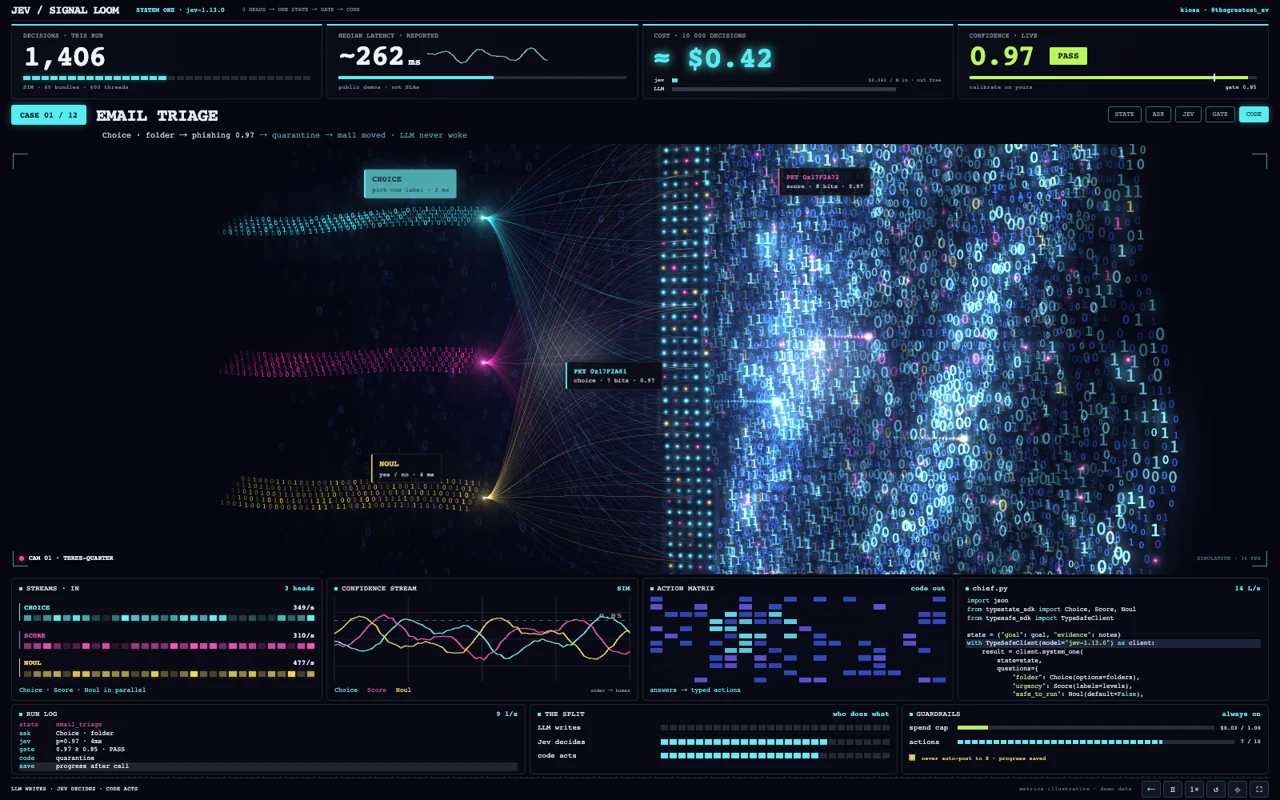
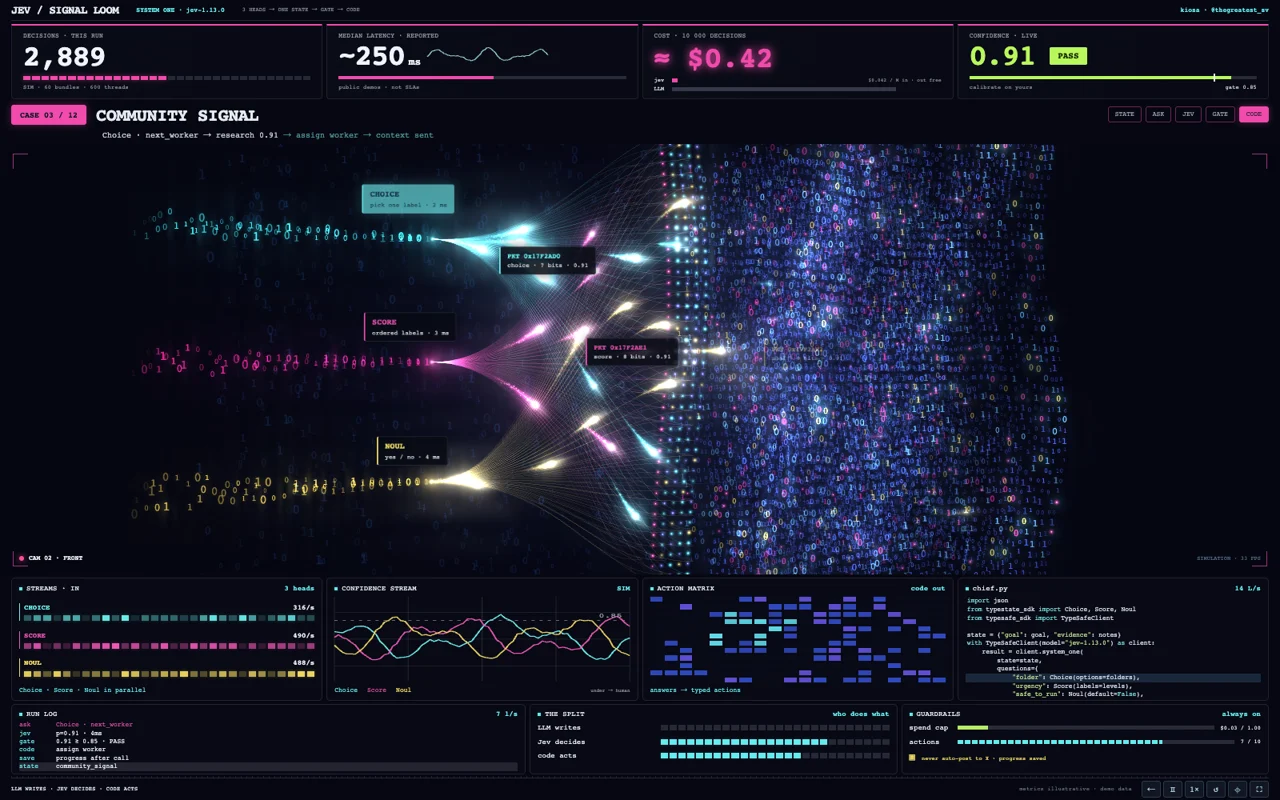
Restore the reference loom’s continuous single-origin flow
Rechecking the video showed that a single emitter can carry several staggered packets at once. Widen and curve the fan, shape tangent-aligned white cores with colored wakes, and distinguish the arrival gate from the finer blue-violet matrix.

Constraint: Keep the compact source halos requested by the user and add no dependencies.
Rejected: One in-flight packet per color | the reference visibly carries multiple asynchronous packets.
Tested: ESLint, Vue typecheck, production build, 9 Signal Loom browser tests, matched 4.5–6.5 second frame comparison.
Not-tested: Pixel-identical video timing and particle noise; physical mobile GPU performance.
Confidence: high
Scope-risk: narrow

diff --git a/src/dashboards/signal-loom/engine.ts b/src/dashboards/signal-loom/engine.ts
@@ -9,18 +9,20 @@ const cameras = ['THREE-QUARTER', 'FRONT', 'GLASS FLOW', 'BEHIND THE FAN', 'CRAN
 const clamp = (v: number, a: number, b: number) => Math.max(a, Math.min(b, v));
 const random = (n: number) => { const v = Math.sin(n * 127.1 + 311.7) * 43758.5453; return v - Math.floor(v); };
 const smooth = (n: number) => n * n * (3 - 2 * n);
-const headY = [-1.03, .03, 1.03];
-const sourceX = -.78;
+const headY = [-.82, .03, .85];
+const sourceX = -1.16;
 const rowsPerSheet = 32;
 const strandsPerHead = rowsPerSheet * 3;
 const flowRate = 1.25;
+const fanEnd = .62;
+const packetsPerSource = 12;
 
 function curve(strand: Strand, t: number): Vec3 {
   const a = 1 - t;
   const y = headY[strand.head];
   const [ex, ey, ez] = strand.end;
   return [
-    a * a * a * sourceX + 3 * a * a * t * -.50 + 3 * a * t * t * -.30 + t * t * t * ex,
+    a * a * a * sourceX + 3 * a * a * t * (sourceX + .90) + 3 * a * t * t * (ex - .55) + t * t * t * ex,
     a * a * a * y + 3 * a * a * t * y + 3 * a * t * t * ey + t * t * t * ey,
     3 * a * t * t * ez + t * t * t * ez,
   ];
@@ -28,8 +30,8 @@ function curve(strand: Strand, t: number): Vec3 {
 
 // One route continues from the source, through the loom gate, into the output matrix.
 function dataPath(strand: Strand, progress: number): Vec3 {
-  if (progress <= .48) return curve(strand, progress / .48);
-  const t = (progress - .48) / .52;
+  if (progress <= fanEnd) return curve(strand, progress / fanEnd);
+  const t = (progress - fanEnd) / (1 - fanEnd);
   return [strand.end[0] + t * (3.5 - strand.end[0]), strand.end[1], strand.end[2]];
 }
 
@@ -60,8 +62,12 @@ void main() {
   gl_Position=vec4(screen.x/u_resolution.x*2.-1.,1.-screen.y/u_resolution.y*2.,0.,1.);
   gl_PointSize=clamp(a_style.x*scale/155.*perspective*u_dpr,1.,512.);
   if(u_quad>.5) {
-    vec2 shape=a_style.z>2.5?vec2(.42,1.55):vec2(1.);
-    gl_Position.xy+=a_corner*shape*vec2(1.,-1.)*a_style.x*scale/155.*perspective/u_resolution;
+    vec2 offset=a_corner;
+    if(a_style.z>3.5) {
+      vec2 along=vec2(cos(a_style.w),sin(a_style.w));
+      offset=along*a_corner.x*1.8+vec2(-along.y,along.x)*a_corner.y*.55;
+    } else if(a_style.z>2.5) offset*=vec2(.42,1.55);
+    gl_Position.xy+=offset*vec2(1.,-1.)*a_style.x*scale/155.*perspective/u_resolution;
   }
   v_uv=a_corner*.5+.5;
   v_blur=clamp((.3-p.z)*.025,0.,.045);
@@ -170,21 +176,21 @@ export function mountSignalLoom(canvas: HTMLCanvasElement, options: SignalOption
         const seed = layer * 4400 + col * 47 + row;
         const n = random(seed);
         if (n < .12) continue;
-        const x = .86 + col * .049 + layer * .04 + Math.sin(row * .18 + layer) * .11 + random(seed + 72) * .024;
+        const x = .96 + col * .049 + layer * .04 + Math.sin(row * .18 + layer) * .11 + random(seed + 72) * .024;
         const y = -1.75 + row * .081 + random(col + layer * 53) * .04 + random(seed + 9) * .018;
         const z = -.95 + layer * .48 + Math.sin(col * .15) * .12;
-        const c: Color = n > .984 ? colors[1] : n > .975 ? colors[2] : n > .69 ? [.52, .94, 1] : [.19, .38, .9];
+        const c: Color = n > .955 ? colors[1] : n > .93 ? colors[2] : n > .84 ? [.4, .75, 1] : [.28, .39, .95];
         const hotspot = Math.pow(.5 + .5 * Math.sin(col * .26 + row * .15 + layer), 4);
-        add(points, [x, y, z], c, (n > .75 ? 16 : 10) + random(seed + 83) * 5, (.12 + n * .52 + hotspot * .7) * (layer === 3 ? 1 : .62), n > .99 ? 1 : 0, n);
-        if (layer === 3 && n > .93) add(points, [x, y, z], [.3, .86, 1], 40, .1 + hotspot * .12, 2, n);
+        add(points, [x, y, z], c, (n > .75 ? 12 : 8) + random(seed + 83) * 3, (.26 + n * .62 + hotspot * .48) * (layer === 3 ? 1 : .78), n > .99 ? 1 : 0, n);
+        if (layer === 3 && n > .93) add(points, [x, y, z], [.3, .86, 1], 38, .09 + hotspot * .12, 2, n);
       }
     }
   }
   // The thin loom gate separates individual strands before they enter the wider binary field.
   for (let row = 0; row < 42; row++) for (let col = 0; col < 5; col++) {
     const seed = row * 5 + col;
-    const c: Color = seed % 11 === 0 ? colors[1] : seed % 13 === 0 ? colors[2] : [.3, .95, 1];
-    add(points, [.61 + col * .07, -1.65 + row * .08, .18 + Math.sin(row * .11) * .2], c, 14, .7 + random(seed) * .55, 1, random(seed));
+    const c: Color = seed % 5 === 0 ? colors[1] : seed % 7 === 0 ? colors[2] : seed % 3 === 0 ? [.4, .45, 1] : [.3, .95, 1];
+    add(points, [.43 + col * .07, -1.65 + row * .08, .18 + Math.sin(row * .11) * .2], c, 12, .60 + random(seed) * .65, 1, random(seed));
   }
   // Sparse out-of-focus binary rain lives behind the signal inputs, not on a screen-space overlay.
   for (let i = 0; i < 750; i++) {
@@ -194,12 +200,13 @@ export function mountSignalLoom(canvas: HTMLCanvasElement, options: SignalOption
     for (let sheet = 0; sheet < 3; sheet++) for (let row = 0; row < rowsPerSheet; row++) {
       const seed = head * strandsPerHead + sheet * rowsPerSheet + row;
       // Ordered layers, rather than random Z endpoints, keep adjacent fibres parallel.
-      const s: Strand = { head, end: [.72 + sheet * .045, -1.62 + row / (rowsPerSheet - 1) * 3.24, -.58 + sheet * .48 + head * .035], seed: random(seed + 93) };
+      const s: Strand = { head, end: [.50 + sheet * .045, -1.62 + row / (rowsPerSheet - 1) * 3.24, -.58 + sheet * .48 + head * .035], seed: random(seed + 93) };
       strands.push(s);
-      for (let step = 0; step < 26; step++) {
-        const alpha = row % 4 === 0 ? .17 + sheet * .025 : .05 + sheet * .008;
-        add(lines, curve(s, step / 26), colors[head], 1, alpha, 1, s.seed);
-        add(lines, curve(s, (step + 1) / 26), colors[head], 1, alpha, 1, s.seed);
+      for (let step = 0; step < 40; step++) {
+        const alpha = .10 + sheet * .022;
+        const fibreColor = colors[head].map(v => .2 + v * .8) as Color;
+        add(lines, curve(s, step / 40), fibreColor, 1, alpha, 1, s.seed);
+        add(lines, curve(s, (step + 1) / 40), fibreColor, 1, alpha, 1, s.seed);
       }
     }
   }
@@ -341,7 +348,7 @@ export function mountSignalLoom(canvas: HTMLCanvasElement, options: SignalOption
       camera: cameras[Math.floor(time % 27 / 4.5)], decisions: 732 + Math.floor(time * 337), confidence: [.97, .94, .91, .92, .93, .90, .96, .89, .91, .71, .82, .94][caseIndex], latency: 256 + Math.round(Math.sin(time * .8) * 6) };
   }
   let overlayItems: SignalOverlay[] = [];
-  const flowProbes: { id: string; head: number; progress: number; world: Vec3; screen: [number, number] }[] = [];
+  const flowProbes: { id: string; head: number; progress: number; origin: Vec3; world: Vec3; screen: [number, number] }[] = [];
   function updateOverlays() {
     const items: SignalOverlay[] = [];
     const addCard = (id: string, kind: 'source' | 'packet', head: number, world: Vec3, age: number, duration: number, title: string, detail: string) => {
@@ -375,25 +382,52 @@ export function mountSignalLoom(canvas: HTMLCanvasElement, options: SignalOption
     add(packets, [-.45, 0, -1.3], [.12, .18, .44], 1000, .23, 2, 0);
     add(packets, [1.7, .1, -1.1], [.12, .16, .44], 1000, .2, 2, 0);
     flowProbes.length = 0;
-    // Each source emits one packet at a time along one fibre. The next packet
-    // chooses a new destination only after the preceding one completes its 0.8s route.
-    for (let head = 0; head < 3; head++) {
-      const clock = time * flowRate + head * .11;
+    // One origin per channel, with asynchronous departures along different fibres.
+    // A packet is a single tangent-aligned spindle, never a row of parallel bright heads.
+    for (let head = 0; head < 3; head++) for (let slot = 0; slot < packetsPerSource; slot++) {
+      const rate = flowRate * (slot === 0 ? 1 : .9 + random(slot + head * 23) * .18);
+      const phase = slot === 0 ? 0 : slot / packetsPerSource + random(slot + head * 29) * .035;
+      const clock = time * rate + phase + head * .11;
       const cycle = Math.floor(clock), progress = clock % 1;
-      const row = 4 + Math.floor(random(cycle * 13 + head * 31) * 24);
-      const sheet = cycle % 3;
+      const row = 1 + Math.floor(random(cycle * 13 + slot * 17 + head * 31) * 30);
+      const sheet = (cycle + slot) % 3;
       const strand = strands[head * strandsPerHead + sheet * rowsPerSheet + row];
       const world = dataPath(strand, progress), projected = project(world);
-      flowProbes.push({ id: `${head}-${cycle}`, head, progress, world, screen: [projected[0], projected[1]] });
-      const envelope = smooth(clamp(progress / .025, 0, 1)) * clamp((1 - progress) / .04, 0, 1);
-      const pale = colors[head].map(v => .55 + v * .45) as Color;
-      add(packets, world, pale, 18, envelope * 1.7, 1, strand.seed);
-      for (let tail = 1; tail <= 26; tail++) {
-        const t = progress - tail * .004;
+      flowProbes.push({ id: `${head}-${slot}-${cycle}`, head, progress, origin: curve(strand, 0), world, screen: [projected[0], projected[1]] });
+      const wallFade = 1 - .82 * smooth(clamp((progress - fanEnd) / .10, 0, 1));
+      const envelope = smooth(clamp(progress / .025, 0, 1)) * clamp((1 - progress) / .04, 0, 1) * wallFade;
+      const pale = colors[head].map(v => .65 + v * .35) as Color;
+      const ahead = project(dataPath(strand, Math.min(1, progress + .006)));
+      const angle = Math.atan2(ahead[1] - projected[1], ahead[0] - projected[0]);
+      const energy = .8 + random(slot + cycle * 37) * .4;
+      add(packets, world, pale, 28 + energy * 7, envelope * .75, 4, angle);
+      add(packets, world, pale, 20, envelope * 1.5, 1, strand.seed);
+      for (let tail = 1; tail <= 30; tail++) {
+        const t = progress - tail * (progress > fanEnd ? .0012 : .0035);
         if (t < 0) continue;
-        add(packets, dataPath(strand, t), colors[head], 9 - tail * .18, envelope * (1 - tail / 27) * .85, 1, strand.seed);
+        add(packets, dataPath(strand, t), colors[head], 16 - tail * .38, envelope * (1 - tail / 31) * (.45 + random(tail * 7 + slot * 31) * .4), 1, strand.seed);
       }
-      if (progress > .025 && progress < .96) add(packets, world, colors[head], 28, .16 * envelope, 2, 0);
+      // Fine fragments follow the curved wake; they never form extra source heads.
+      if (progress < fanEnd) for (let fleck = 0; fleck < 14; fleck++) {
+        const t = progress - .012 - fleck * .005;
+        if (t < 0) continue;
+        const seed = cycle * 79 + slot * 37 + fleck;
+        const wake = dataPath(strand, t);
+        wake[1] += (random(seed) - .5) * .035;
+        wake[2] += (random(seed + 9) - .5) * .045;
+        add(packets, wake, pale, 3 + random(seed + 3) * 4, envelope * (1 - fleck / 15) * .9, 1, strand.seed);
+      }
+      if (progress > .025 && progress < .96) add(packets, world, colors[head], 70, .16 * envelope, 2, 0);
+      // A short-lived activation follows each arrival, rather than lighting the whole gate.
+      if (progress >= fanEnd && progress < fanEnd + .18) {
+        const impact = (1 - (progress - fanEnd) / .18) ** 3;
+        const gateRow = Math.round((strand.end[1] + 1.65) / .08);
+        for (let rowOffset = -1; rowOffset <= 1; rowOffset++) for (let col = 1; col < 4; col++) {
+          const row = gateRow + rowOffset;
+          add(packets, [.43 + col * .07, -1.65 + row * .08, .18 + Math.sin(row * .11) * .2], pale, 18, impact * 1.2, 1, 0);
+        }
+        add(packets, [.57, strand.end[1], strand.end[2]], colors[head], 60, impact * .25, 2, 0);
+      }
     }
     for (let head = 0; head < 3; head++) {
       const p: Vec3 = [sourceX, headY[head], 0];
@@ -402,11 +436,14 @@ export function mountSignalLoom(canvas: HTMLCanvasElement, options: SignalOption
       add(packets, p, colors[head], 36 * pulse, .38, 2, 0);
       add(packets, p, colors[head], 12 * pulse, 1, 1, 0);
       // The input digits themselves translate toward the source at 2.1 traversals/second.
-      for (let col = 0; col < 42; col++) for (let row = 0; row < 5; row++) {
-        const phase = (col / 42 + time * 2.1) % 1;
-        const world: Vec3 = [-2.9 + phase * (2.9 + sourceX), headY[head] + (row - 2) * .035 + Math.sin(phase * 6) * .025, (row - 2) * .06];
+      for (let col = 0; col < 30; col++) for (let row = 0; row < 3; row++) {
+        const seed = col * 7 + row + head * 101;
+        if (random(seed) < .15) continue;
+        const phase = (col / 30 + time * 2.1) % 1;
+        const width = 1 - phase;
+        const world: Vec3 = [-2.9 + phase * (2.9 + sourceX), headY[head] + ((row - 1) * .07 + (random(seed + 77) - .5) * .08) * width, ((row - 1) * .10 + random(seed + 20) * .08) * width];
         const edge = Math.min(1, phase * 12, (1 - phase) * 18);
-        add(packets, world, colors[head], 10, edge * (.45 + random(col + head * 42) * .6), 0, random(col * 5 + row));
+        add(packets, world, colors[head], 8 + random(seed + 19) * 8, edge * (.35 + random(seed) * .7), 0, random(seed));
       }
     }
   }
@@ -486,6 +523,9 @@ export function mountSignalLoom(canvas: HTMLCanvasElement, options: SignalOption
       if (packets[i + 8] === 0) {
         const digit = Math.floor((packets[i + 9] % 1) * 2);
         ctx.drawImage(atlas, digit * 32, 0, 32, 32, p[0] - size / 2, p[1] - size / 2, size, size);
+      } else if (packets[i + 8] === 4) {
+        ctx.save(); ctx.translate(p[0], p[1]); ctx.rotate(packets[i + 9]); ctx.scale(1.8, .55);
+        ctx.drawImage(glowSprites[head], -size / 2, -size / 2, size, size); ctx.restore();
       } else ctx.drawImage(glowSprites[head], p[0] - size / 2, p[1] - size / 2, size, size);
     }
     ctx.globalAlpha = 1;
@@ -558,7 +598,7 @@ export function mountSignalLoom(canvas: HTMLCanvasElement, options: SignalOption
     getSnapshot: snapshot,
     debug() {
       const probes: Vec3[] = [[1.2, -.8, -.95], [1.2, -.8, .61], [sourceX, 1.03, 0]];
-      return { pointCount: points.length / 10, strandCount: strands.length, flow: flowProbes.map(p => ({ ...p, world: [...p.world] as Vec3, screen: [...p.screen] as [number, number] })), overlays: overlayItems.map(item => ({ ...item })), depthRange: { ...depthRange }, rotation: { yaw, pitch, zoom }, disposed, renderer: gpuReady ? 'webgl' : 'canvas2d', frameCount, activeFrame: raf !== 0,
+      return { pointCount: points.length / 10, strandCount: strands.length, flow: flowProbes.map(p => ({ ...p, origin: [...p.origin] as Vec3, world: [...p.world] as Vec3, screen: [...p.screen] as [number, number] })), overlays: overlayItems.map(item => ({ ...item })), depthRange: { ...depthRange }, rotation: { yaw, pitch, zoom }, disposed, renderer: gpuReady ? 'webgl' : 'canvas2d', frameCount, activeFrame: raf !== 0,
         probes: probes.map(world => { const p = project(world); return { world, screen: [p[0], p[1]] }; }) };
     },
     dispose() {

diff --git a/tests/signal-loom.spec.ts b/tests/signal-loom.spec.ts
@@ -59,10 +59,13 @@ test('Signal Loom rapidly transports the same data packets continuously into the
     controller.setPaused(true);
     return { initial, after100ms, path };
   });
-  expect(result.initial).toHaveLength(3);
+  expect(result.initial.length).toBeGreaterThan(3);
   for (const head of [0, 1, 2]) {
-    expect(result.initial.filter(packet => packet.head === head)).toHaveLength(1);
-    expect(result.after100ms.filter(packet => packet.head === head)).toHaveLength(1);
+    const channel = result.initial.filter(packet => packet.head === head);
+    expect(channel.length).toBeGreaterThan(1);
+    expect(new Set(channel.map(packet => JSON.stringify(packet.origin))).size).toBe(1);
+    expect(new Set(channel.map(packet => packet.progress.toFixed(3))).size).toBe(channel.length);
+    expect(channel[0]!.origin[0]).toBeLessThan(-1);
     const first = result.initial.find(packet => packet.head === head && packet.progress < .5)!;
     const next = result.after100ms.find(packet => packet.id === first.id)!;
     expect(next, `Channel ${head} retains packet identity while travelling`).toBeDefined();

diff --git a/src/dashboards/signal-loom/model.ts b/src/dashboards/signal-loom/model.ts
@@ -26,7 +26,7 @@ export interface SignalOverlay {
 export interface SignalDiagnostics {
   pointCount: number;
   strandCount: number;
-  flow: { id: string; head: number; progress: number; world: [number, number, number]; screen: [number, number] }[];
+  flow: { id: string; head: number; progress: number; origin: [number, number, number]; world: [number, number, number]; screen: [number, number] }[];
   overlays: SignalOverlay[];
   depthRange: { min: number; max: number };
   rotation: { yaw: number; pitch: number; zoom: number };

diff --git a/docs/signal-loom.md b/docs/signal-loom.md
@@ -28,4 +28,6 @@
 
 上层卡片使用与背景相同的 XYZ 投影，按各自生命周期淡入、移动、淡出并替换内容；镜头旋转和缩放时跟随空间锚点，暂停时同步冻结。卡片通过独立 Vue 子层更新，主监测面板仍以较低频率刷新。WebGL 与 Canvas 回退共用传输轨迹。
 
-源头采用小光核和收敛光晕，每路同一时刻只有一个发射亮点，沿一条连接线前进，抵达后换线发射下一包。移除同色多排齐发；连接线以较亮主线和较细辅线区分层次。
+源头采用小光核和收敛光晕。每色只有一个固定发射源，但允许多个在途包：各包错峰沿不同曲线出发，不再同相位成排齐发。曲线两端水平、中段弯折，源点向左且上下收拢，以接近原片的宽扇束构图。
+
+光梭沿投影切线拉长，白核带沿曲线衰减的彩尾；穿过入口点阵后缩短尾迹并减弱亮度。入口保持蓝紫、青、粉、金的窄点阵，抵达时局部闪烁；右侧为细密蓝紫数字墙与局部亮区。WebGL 与 Canvas 回退均支持切线方向的光梭。
